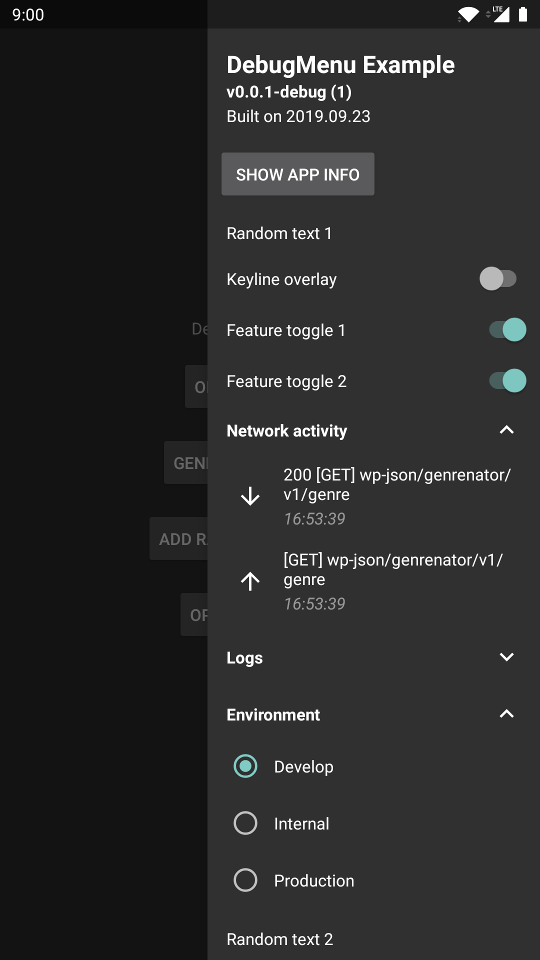
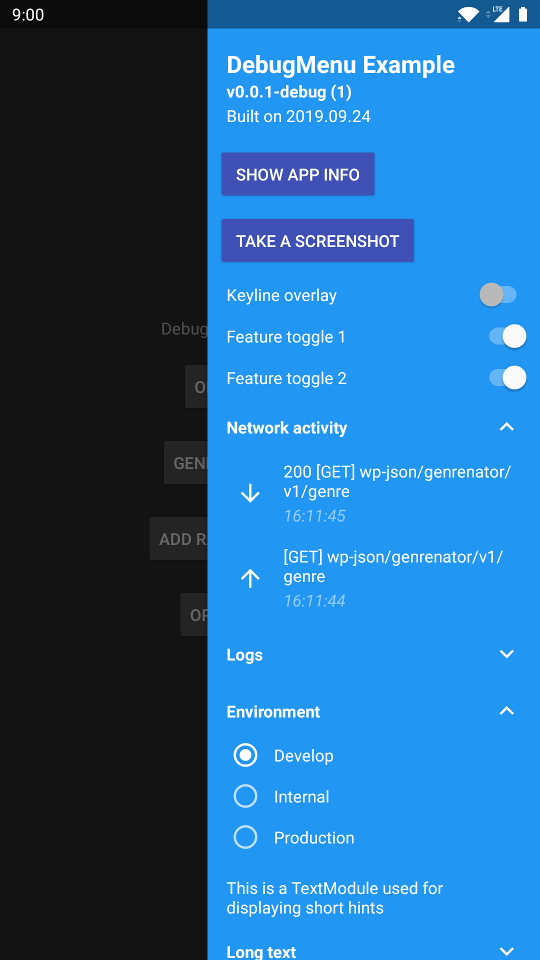
Update screenshots.

diff --git a/example/src/main/java/com/pandulapeter/debugMenuExample/DebugMenuExampleApplication.kt b/example/src/main/java/com/pandulapeter/debugMenuExample/DebugMenuExampleApplication.kt
@@ -60,7 +60,7 @@ class DebugMenuExampleApplication : Application() {
                         onItemSelectionChanged = { backendEnvironment -> backendEnvironment.url.showToast() }
                     ),
                     TextModule(
-                        text = "This is an example TextModule"
+                        text = "This is a TextModule used for displaying short hints"
                     ),
                     LongTextModule(
                         title = "Long text",

diff --git a/debug-menu/src/main/java/com/pandulapeter/debugMenu/DebugMenu.kt b/debug-menu/src/main/java/com/pandulapeter/debugMenu/DebugMenu.kt
@@ -321,6 +321,7 @@ object DebugMenu : DebugMenuContract {
         currentJob = GlobalScope.launch {
             val items = mutableListOf<DrawerItemViewModel>()
 
+            //TODO: DiffUtil seems to rebind the expanded list items even if they didn't change.
             fun addListModule(module: DebugMenuExpandableModule, shouldShowIcon: Boolean, addItems: () -> List<DrawerItemViewModel>) {
                 items.add(
                     ListHeaderViewModel(

diff --git a/debug-menu-core/src/main/java/com/pandulapeter/debugMenuCore/configuration/modules/ButtonModule.kt b/debug-menu-core/src/main/java/com/pandulapeter/debugMenuCore/configuration/modules/ButtonModule.kt
@@ -10,6 +10,7 @@ import java.util.UUID
  * @param text - The text that should be displayed on the button.
  * @param onButtonPressed - The callback that gets invoked when the user presses the button.
  */
+//TODO: The Buttons don't look great if the app uses Material theme.
 data class ButtonModule(
     override val id: String = UUID.randomUUID().toString(),
     val text: CharSequence,
